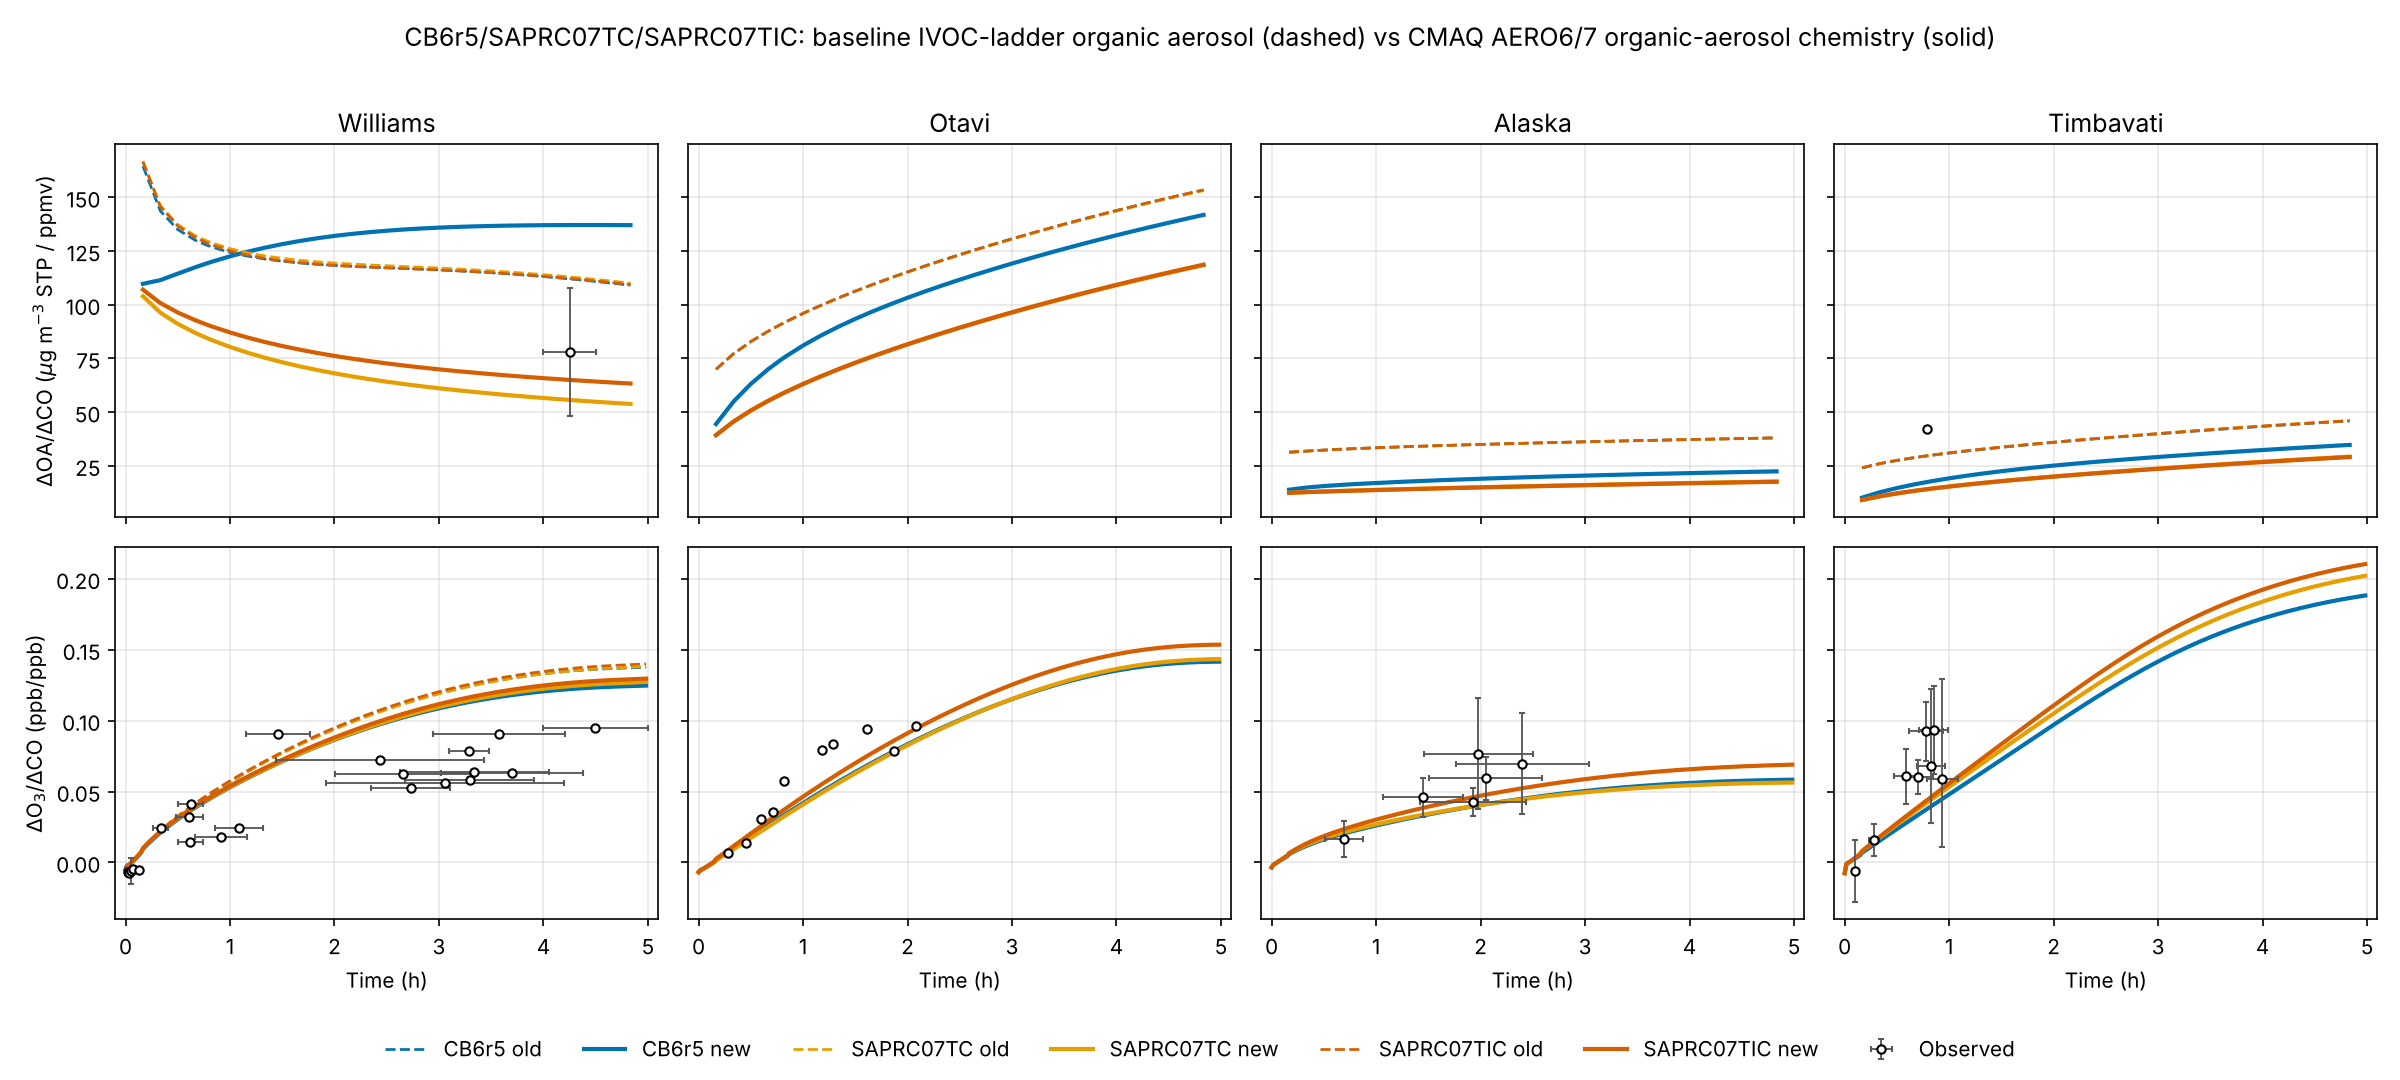
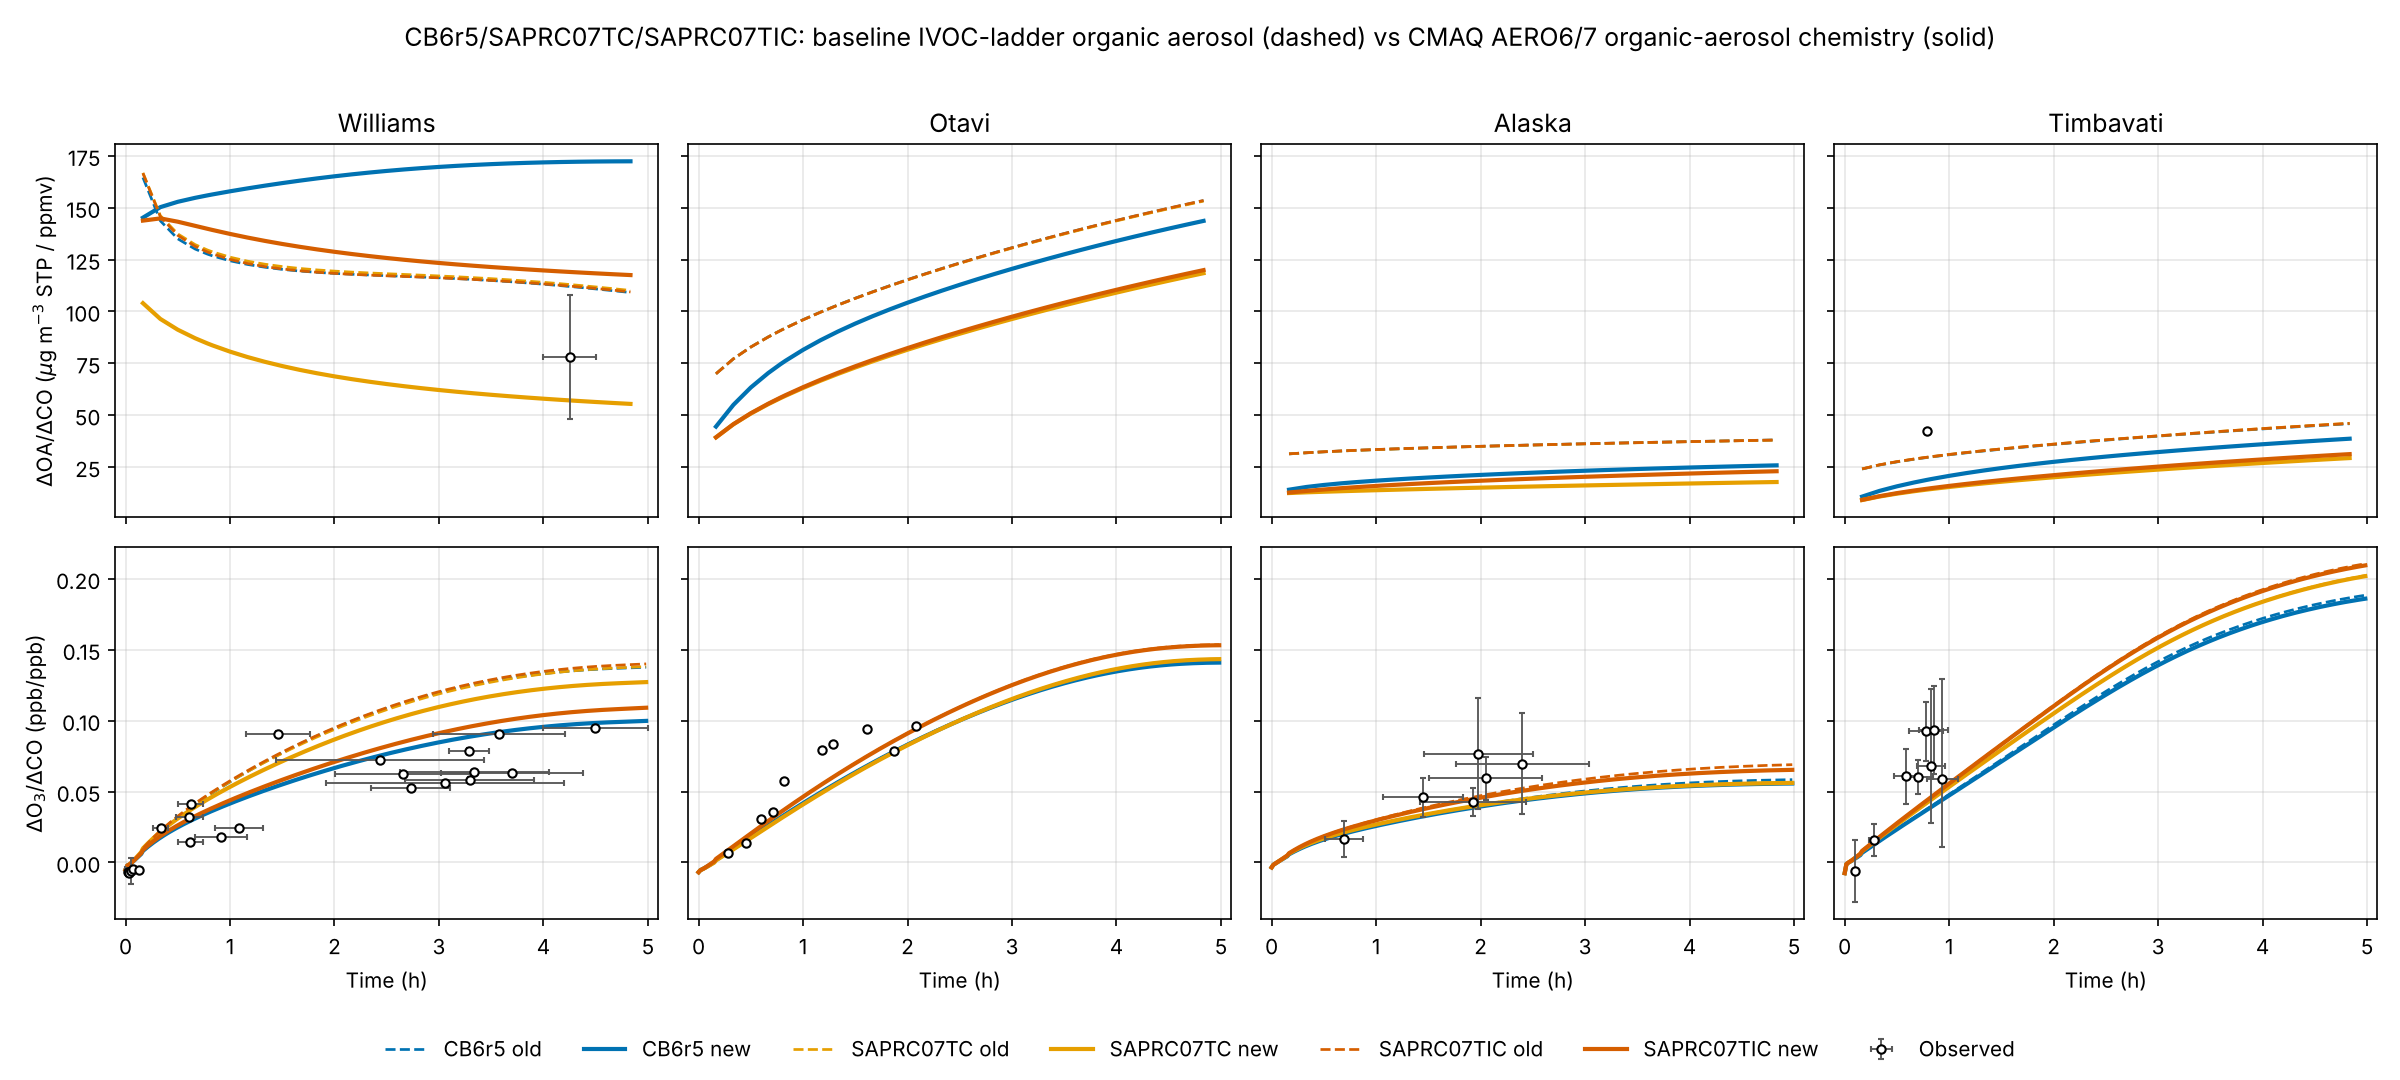
NO2 uptake (flag 21) in all mechanism decks, regenerated plots, README update
Claude-Session: https://claude.ai/code/session_01NKWstewGfixjYpUH8jReac

diff --git a/CB6r5Translation/cmaq_het.py b/CB6r5Translation/cmaq_het.py
@@ -10,7 +10,7 @@ lines sit between the markers `CMAQ_HET_BEGIN` / `CMAQ_HET_END` in GasChemicalMe
                                     -> AHOM + HNO3 (9.26e-5 /s) and, for CRACMM3, AHOM photolysis (0.01 x jNO2)
 
 Also (where the CMAQ mech has them): NTR2 hydrolysis (flag 19), N2O5 uptake (flag 20, Davis et al. gamma), NO3 (gamma 1e-3) and HO2
-(gamma 0.2, no products as in CMAQ) uptake.  Not represented: NO2 uptake (HONO), chlorine / bromine / iodine and SO2 heterogeneous chemistry.
+(gamma 0.2, no products as in CMAQ) uptake.  NO2 uptake (flag 21, 1e-4 m/s x fine surface area, 0.5 HONO + 0.5 HNO3).  Not represented: chlorine / bromine / iodine and SO2 heterogeneous chemistry.
 CMAQ's CB6r5 / AERO6 IEPOX goes through the intermediates IEPOXP (+ ASO4J); here the epoxide goes directly to the product
 (sulfate is not consumed), and the AERO7i dimers are folded into the tetrol / organosulfate channels.
 """
@@ -48,6 +48,8 @@ EXTRA = {
     'SAPRC07TIC': [('N2O5', '2 HNO3', '20 ; 1 ; 108.01 ;'), ('NO3', 'HNO3', '3 ; 1e-3 ; 62.0 ; 0 ;')],
     'CRACMM2':    [('N2O5', '2 HNO3', '20 ; 1 ; 108.01 ;'), ('NO3', 'HNO3', '3 ; 1e-3 ; 62.0 ; 0 ;'), ('HO2', 'OffGas', '3 ; 0.2 ; 33.0 ; 0 ;')],
 }
+for _m in list(EXTRA):
+    EXTRA[_m].append(('NO2', '0.5 HONO + 0.5 HNO3', '21 ; 1e-4 ;'))
 EXTRA['CRACMM3'] = EXTRA['CRACMM2']
 GAS_MW = {'GLY': 58.0, 'MGLY': 72.0, 'EPOX': 118.1, 'IEPOX': 118.1, 'IMAE': 102.0, 'IHMML': 102.0, 'IPX': 150.1, 'INALD': 195.1}
 

diff --git a/CB6r5Translation/NewMechanisms_README.md b/CB6r5Translation/NewMechanisms_README.md
@@ -95,3 +95,19 @@ and reactions-only, so the share of each tier is not separated.
   SAPRC07TC 24.5 / 25.2 / 25.2, SAPRC07TIC 28.9 / 52.9 / 52.9.  CB6r5 and SAPRC decks are unchanged by the new pathways and the volume basis (to
   0.01 ug/m3 in Williams), so their OA gain comes from oligomerisation, hydrolysis and glyoxal uptake, not the epoxide uptake.  Only CRACMM changes
   (HO2 / NO3 / N2O5 uptake, volume basis); the split among them was not run.  Alaska and Timbavati CRACMM change by 0.1-0.2 ug/m3.
+
+### Update: NO2 uptake to HONO (flag 21; common_asp asp_v2.2.2 head)
+* `NO2 => 0.5 HONO + 0.5 HNO3 ; 1 ; 21 ; 1e-4 ;` (CMAQ HETERO_NO2, Vogel et al. 2003): k = v x wet surface area per volume of air, v = 1e-4 m/s, summed over bins
+  with r < 1.25 um (CMAQ I+J modes).  It is in all five mechanism decks (CMAQ has it in CRACMM2/3 and CB6r5; AERO7i/SAPRC decks get it as well, as a switchable
+  `CMAQ_HET` line: delete it to remove it).  Logged k is about 1.7e-6 /s in Williams at t=0.
+* OA at 290 min is unchanged to <= 0.2 ug/m3 in every case (Williams CRACMM2 193.0 -> 193.0, CRACMM3 129.2 -> 129.4, CB6r5 77.7, SAPRC07TC 25.2, SAPRC07TIC 52.9),
+  as expected for a gas-phase NOx/HONO pathway.  Comparison plots regenerated.
+
+### Open items carried over from earlier steps
+* Timbavati OA about half of observed; SO2 background mismatch; Williams IVOC3-7 initial values.
+* NTR2 hydrolysis rate was only seen in the log at t=0 (0); not verified later in the run.
+* Not represented: IEPOXP/sulfate consumption (epoxide goes directly to product), AERO7i dimers (folded into tetrol / organosulfate channels), CMAQ's
+  H2NO3P / NO2P tracer products of N2O5 uptake; coarse-mode N2O5 gamma.
+* SAPRC07TIC OA gain (+83 % Williams) is not from epoxide uptake or the volume basis; its cause is not isolated.  Share of uptake vs particle-phase reactions not split.
+* Held by request: SurfaceTension simplification; thermodynamics NaN warnings stay uncommented.
+* `src` submodule stays pinned to ba61060; master untouched (Matt merges).
